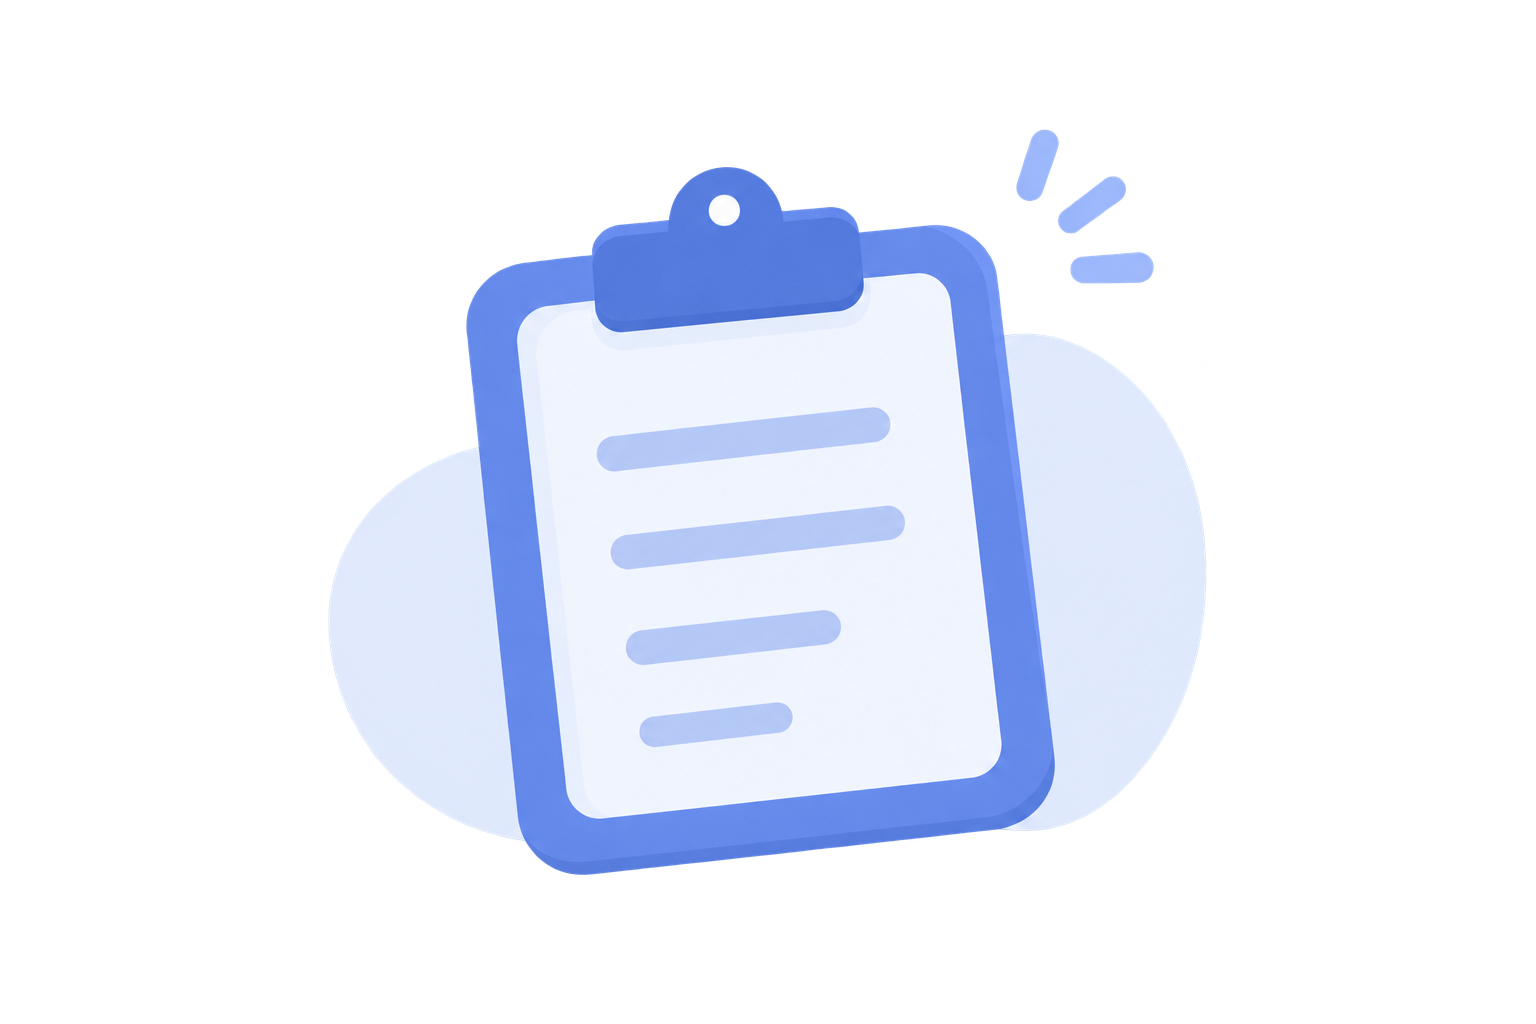
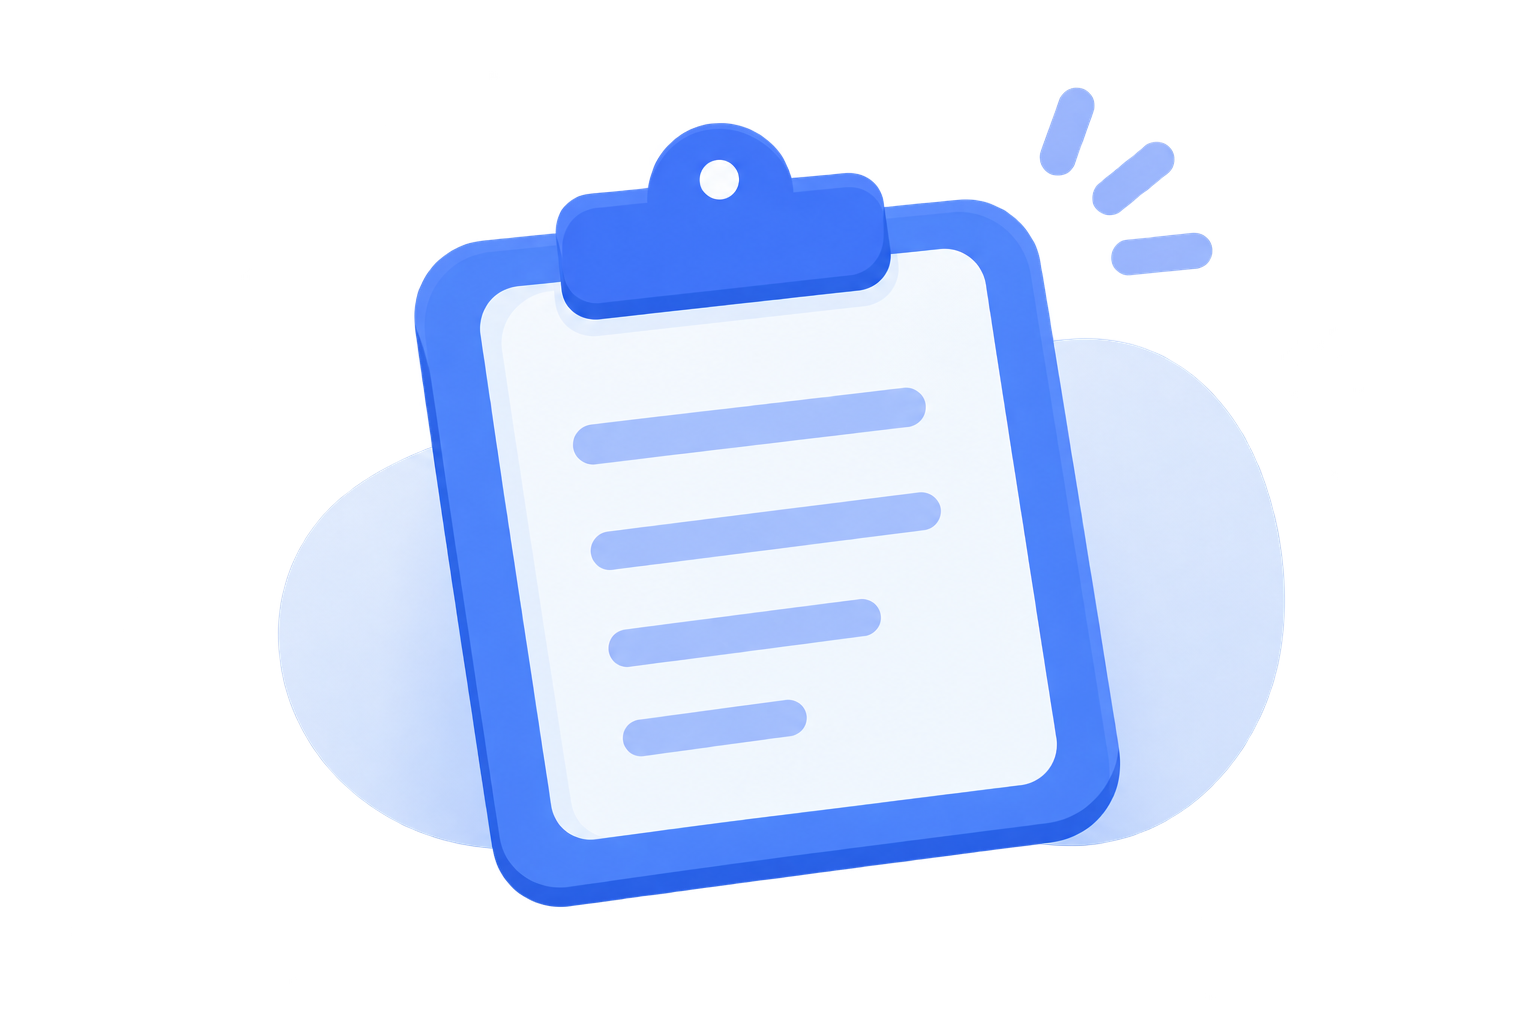
fix

Changed region(s): [[0.1562, 0.0625, 0.8438, 0.9062], [0.4062, 0.6875, 0.5, 0.75], [0.5, 0.6875, 0.5312, 0.7188]]

diff --git a/lib/projects/day_9_todo_list/todo_list.dart b/lib/projects/day_9_todo_list/todo_list.dart
@@ -10,56 +10,72 @@ class TodoList extends StatefulWidget {
 class _TodoListState extends State<TodoList> {
   @override
   Widget build(BuildContext context) {
+    final topPadding = MediaQuery.of(context).padding.top;
     return Scaffold(
       body: LayoutBuilder(builder: (context, constraints) {
         final headerHeight = constraints.maxHeight * 0.27;
+        final illustrationSize =
+            (constraints.maxWidth * 0.45).clamp(140.0, 190.0);
 
-        return Stack(
-          children: [
-            Container(
-              height: headerHeight,
-              width: double.infinity,
-              padding: const EdgeInsets.symmetric(horizontal: 20, vertical: 32),
-              decoration: const BoxDecoration(
-                  borderRadius:
-                      BorderRadius.only(bottomLeft: Radius.circular(40)),
-                  color: Colors.amber),
-              child: SafeArea(
-                child: Column(
-                  crossAxisAlignment: CrossAxisAlignment.start,
-                  mainAxisSize: MainAxisSize.min,
-                  children: [
-                    Text("Todo App",
-                        style: Theme.of(context)
-                            .textTheme
-                            .headlineMedium
-                            ?.copyWith(color: Colors.white)),
-                    const SizedBox(
-                      height: 8,
-                    ),
-                    Text("Get things done",
-                        style: Theme.of(context)
-                            .textTheme
-                            .bodyMedium
-                            ?.copyWith(color: Colors.white))
-                  ],
+        return SizedBox(
+            height: double.infinity,
+            child: Stack(
+              children: [
+                Container(
+                  height: headerHeight,
+                  width: double.infinity,
+                  padding:
+                      EdgeInsets.only(left: 20, right: 20, top: topPadding),
+                  decoration: const BoxDecoration(
+                      borderRadius:
+                          BorderRadius.only(bottomLeft: Radius.circular(40)),
+                      color: Colors.amber),
+                  child: Column(
+                    crossAxisAlignment: CrossAxisAlignment.start,
+                    mainAxisAlignment: MainAxisAlignment.center,
+                    children: [
+                      Text("Todo App",
+                          style: Theme.of(context)
+                              .textTheme
+                              .headlineMedium
+                              ?.copyWith(color: Colors.white)),
+                      const SizedBox(
+                        height: 8,
+                      ),
+                      Text("Get things done",
+                          style: Theme.of(context)
+                              .textTheme
+                              .bodyMedium
+                              ?.copyWith(color: Colors.white))
+                    ],
+                  ),
                 ),
-              ),
+                Positioned(
+                  top: headerHeight - 40,
+                  left: 0,
+                  right: 0,
+                  bottom: 0,
+                  child: Container(
+                    decoration: const BoxDecoration(
+                        borderRadius:
+                            BorderRadius.only(topRight: Radius.circular(40)),
+                        color: Colors.red),
+                    child: Column(
+                      mainAxisAlignment: MainAxisAlignment.center,
+                      children: [
+                        Image.asset(
+                          'assets/images/todolist.png',
+                          width: illustrationSize,
+                          height: illustrationSize * 1.25,
+                          fit: BoxFit.contain,
+                        )
+                      ],
+                    ),
+                  ),
+                ),
+              ],
             ),
-            Positioned(
-              top: headerHeight - 90,
-              left: 0,
-              right: 0,
-              bottom: 0,
-              child: Container(
-                decoration: const BoxDecoration(
-                    borderRadius:
-                        BorderRadius.only(topRight: Radius.circular(40)),
-                    color: Colors.red),
-              ),
-            ),
-          ],
-        );
+            s);
       }),
     );
   }
